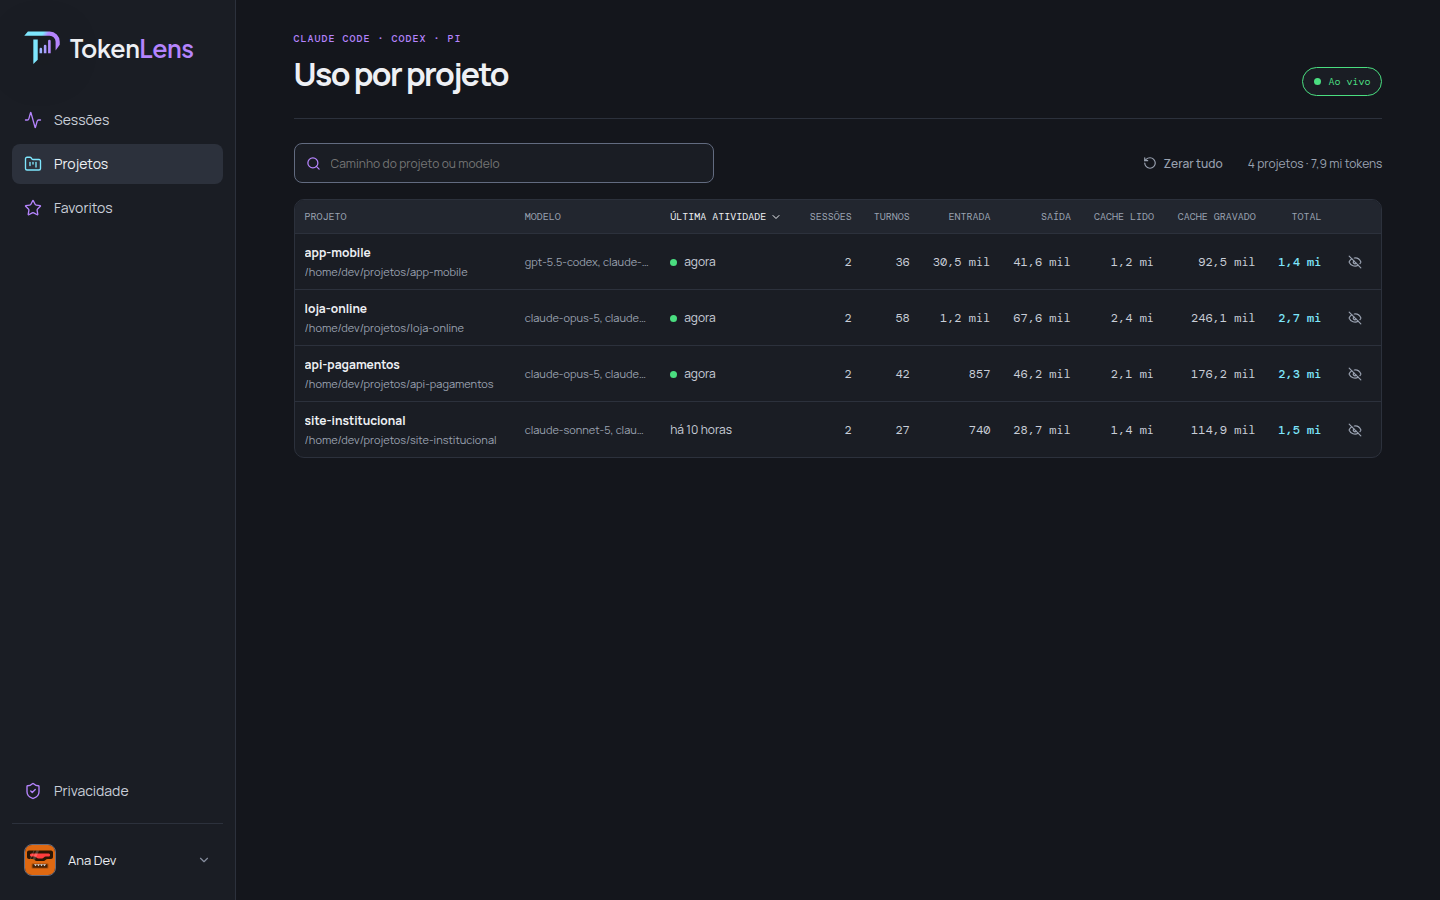
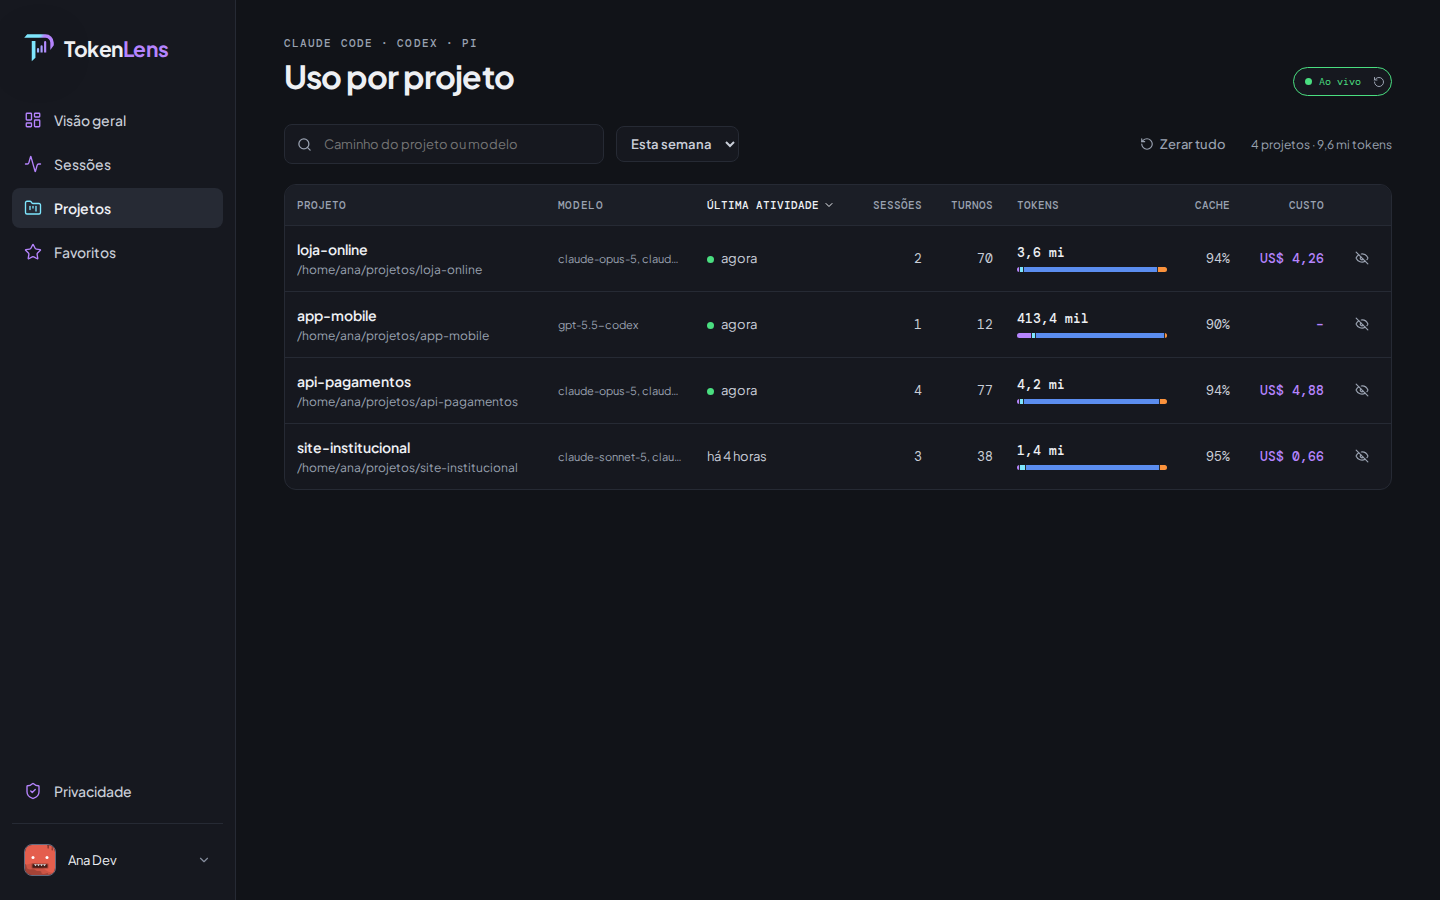
docs: update README screenshots for the new UI

diff --git a/README.md b/README.md
@@ -15,7 +15,7 @@ sem conexão externa.
 ![Local first](https://img.shields.io/badge/100%25-local-7c5cff)
 ![Sem telemetria](https://img.shields.io/badge/telemetria-nenhuma-22c55e)
 
-<img src="docs/screenshots/sessoes.png" alt="Lista de sessões com tokens de entrada, saída e cache" width="900" />
+<img src="docs/screenshots/visao-geral.png" alt="Visão geral: custo, tokens, cache, sessões ao vivo, gasto por hora e projetos" width="900" />
 
 </div>
 
@@ -40,7 +40,8 @@ sem conexão externa.
 
 | | |
 |---|---|
-| **Sessões ao vivo** | Cada sessão do Claude Code, do Codex e do pi, com entrada, saída, cache lido, cache gravado e total. A linha pisca quando chega uma resposta nova. |
+| **Visão geral** | Custo, tokens e aproveitamento de cache do dia, da semana ou do mês, as sessões ao vivo, o gasto por hora ou por dia e os projetos que mais gastaram. |
+| **Sessões ao vivo** | Cada sessão do Claude Code, do Codex e do pi, com o total de tokens (e quanto foi entrada, saída, cache lido e cache gravado), a parte da entrada servida do cache e o custo estimado. A linha pisca quando chega uma resposta nova. |
 | **Projetos** | Tudo o que foi gasto em cada pasta, somando as sessões. |
 | **Custo ao longo do tempo** | O custo acumulado da sessão, com as respostas fora da curva marcadas. |
 | **Contexto por resposta** | Quanto contexto foi enviado a cada resposta, quando o cache se perdeu (e quanto isso custou), e onde um `/compact` ou `/clear` cortou o contexto. O `/clear` abre uma sessão nova, e o gráfico leva de uma à outra. |
@@ -58,12 +59,18 @@ sem conexão externa.
 
 <table>
   <tr>
+    <td><img src="docs/screenshots/sessoes.png" alt="Lista de sessões com tokens, cache e custo" /></td>
     <td><img src="docs/screenshots/projetos.png" alt="Uso por projeto" /></td>
-    <td><img src="docs/screenshots/privacidade.png" alt="Configurações de privacidade" /></td>
   </tr>
   <tr>
+    <td align="center"><sub>Sessões: tokens, cache e custo de cada uma</sub></td>
     <td align="center"><sub>Uso por projeto</sub></td>
-    <td align="center"><sub>Privacidade: modo manual, pausa, ocultar chat e caminhos</sub></td>
+  </tr>
+  <tr>
+    <td colspan="2" align="center"><img src="docs/screenshots/privacidade.png" alt="Configurações de privacidade" width="50%" /></td>
+  </tr>
+  <tr>
+    <td colspan="2" align="center"><sub>Privacidade: modo manual, pausa, ocultar chat e caminhos</sub></td>
   </tr>
 </table>
 
